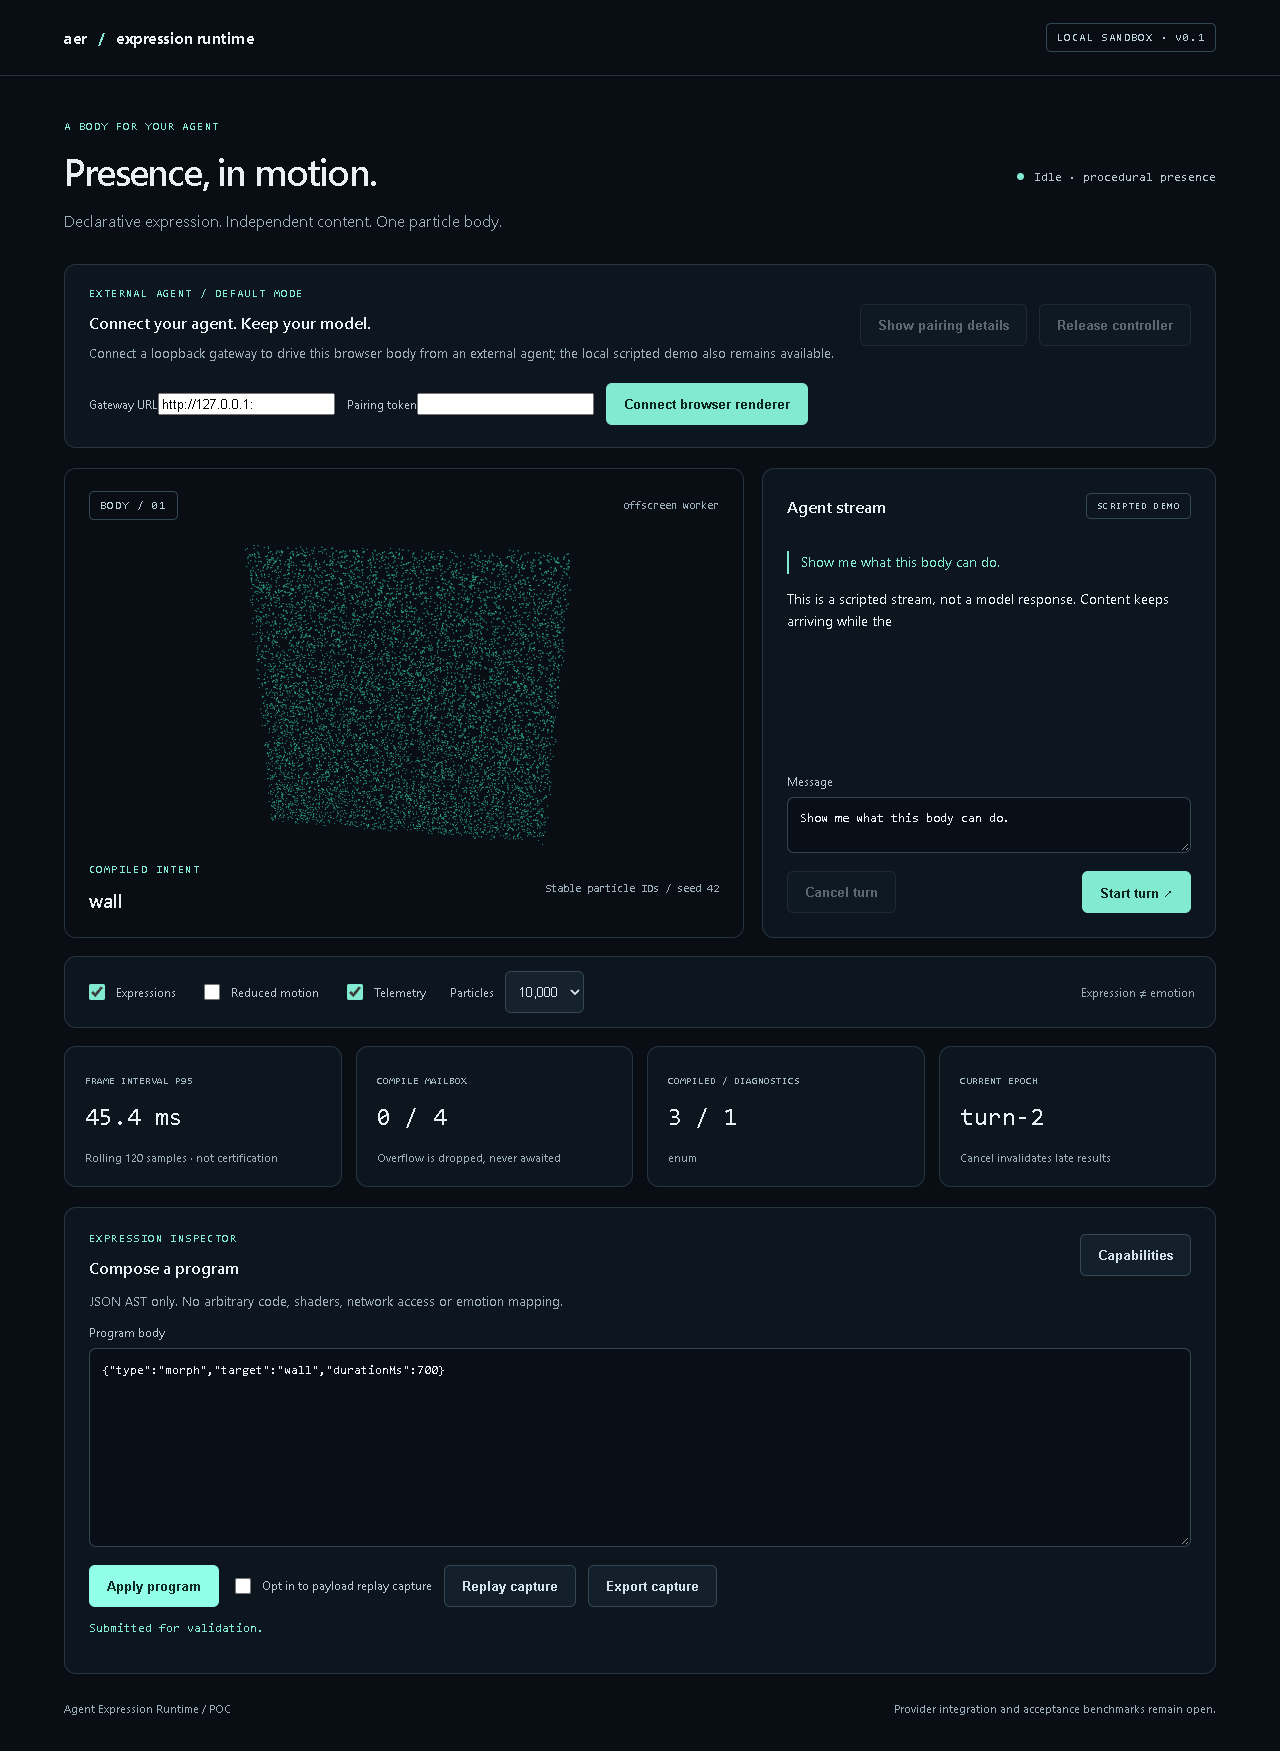
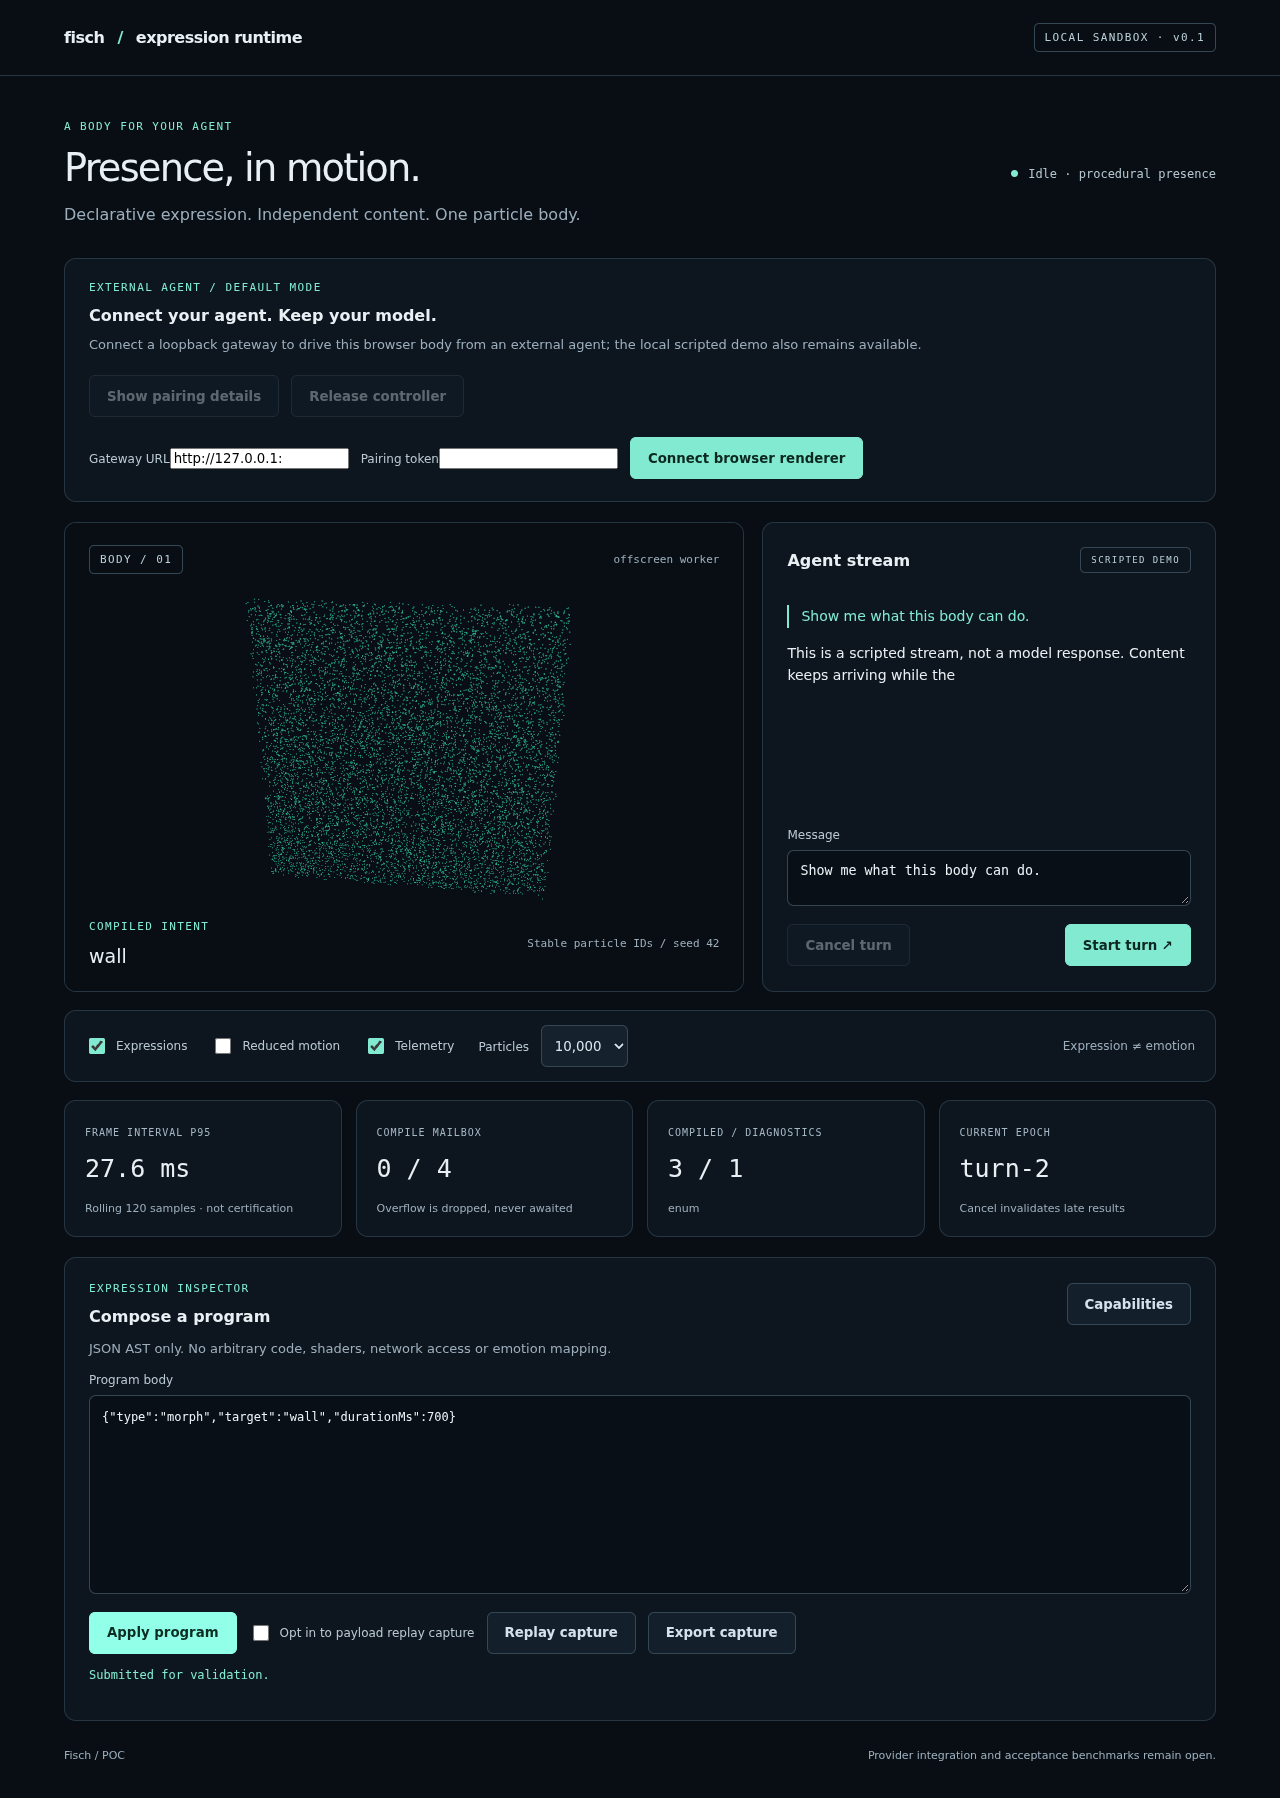
test: record Fisch CLI validation on Windows and WSL2 Linux

diff --git a/docs/linux-validation.md b/docs/linux-validation.md
@@ -13,4 +13,6 @@ docker run --name aer-linux-check --init --shm-size=1g --mount "type=bind,source
 
 The validation script installs the locked npm dependencies, links the Fisch CLI, runs `fisch build` and `fisch test` and exercises the real gateway/browser/MCP bridge using system Chromium. `CHROME_PATH` selects that browser; Playwright browser downloads are unnecessary. The Linux binary is `/work/src-tauri/target/debug/agent-expression-runtime` inside the validation container. It requires the platform runtime libraries, including GTK/WebKit.
 
-Successful validation writes `/work/docs/evidence/linux-validation.json`. Browser evidence generated inside the container stays separate from Windows evidence. This validates headless Linux rendering and the gateway; it does not certify a native WebView desktop window, macOS execution or human perception of effort parameters.
+Successful validation writes `/work/docs/evidence/linux-validation.json`. Browser evidence is generated inside the container before selected results are exported to the repository. This validates headless Linux rendering and the gateway; it does not certify a native WebView desktop window, macOS execution or human perception of effort parameters.
+
+Recorded validation: Fisch 0.1.0, Node 22.23.4, Cargo 1.99.1, Debian x86_64 on WSL2 kernel 5.15.167.4. `fisch build`, `fisch test`, 83 JavaScript tests, 11 Rust tests and the real browser/gateway/MCP smoke passed. The exported Linux ELF engine is `.runtime/linux/fisch-engine`; its hash and build evidence are in [the validation report](evidence/linux-validation.json). Current browser screenshots were refreshed from this Linux run. Windows also passed `fisch build` and `fisch test` with the same test counts. Codex model authentication and a real-model conversation are not part of this automated validation.

diff --git a/docs/review-progress.md b/docs/review-progress.md
@@ -26,6 +26,8 @@ This ledger records review findings and validation evidence. Publication status 
 
 ## Primitive contract
 
+Fisch is the product and CLI name. `fisch run` opens a paired body and a fresh Codex session; `build`, `test`, `doctor`, `evaluate`, `--help` and `--version` provide the corresponding workflows. Windows and Debian Linux on WSL2 passed 83 JavaScript tests and 11 Rust tests via `fisch test`; the Linux browser/gateway/MCP smoke also passed. See [Linux validation](linux-validation.md) for the recorded environment and exported ELF artifact. This does not establish human effort recognition, native desktop visual acceptance or macOS execution.
+
 The MCP adapter now restores up to 32 acknowledged immutable macro definitions after session recreation and retries only definitively rejected commands. An unknown macro after a compiler reset triggers bounded registry restoration; caller request IDs are renewed only after a definitive rejection. Uncertain definitions stay out of the restoration journal. `express` advertises the full shared program/state/definition schemas, and initialization includes the instruction bundle. Lease-expiry, refresh, compiler-reset, uncertain-definition and schema regressions cover the adapter; a live browser smoke also covers macro restoration across controller revocation.
 
 Compiler errors retain their AST `path` through the Worker host, browser/Tauri completion, Rust receipt and MCP tool error. The same path is retained in deduplicated receipts. Worker-host, Rust HTTP/dedup and MCP regressions check a nested node error such as `$.body.children[1].durationMs`.

diff --git a/README.md b/README.md
@@ -16,7 +16,7 @@ This builds the runtime, opens and pairs the browser body, and starts a fresh Co
 
 ## Development entry points
 
-Requires Node.js 22.12+ (or 24), npm, and for desktop Rust stable, Microsoft C++ Build Tools and WebView2.
+Requires Node.js 22.12+ (or 24), npm, Rust stable and the platform Tauri prerequisites. Windows desktop builds need Microsoft C++ Build Tools and WebView2; Linux builds need GTK/WebKit development packages.
 
 ```sh
 npm ci
